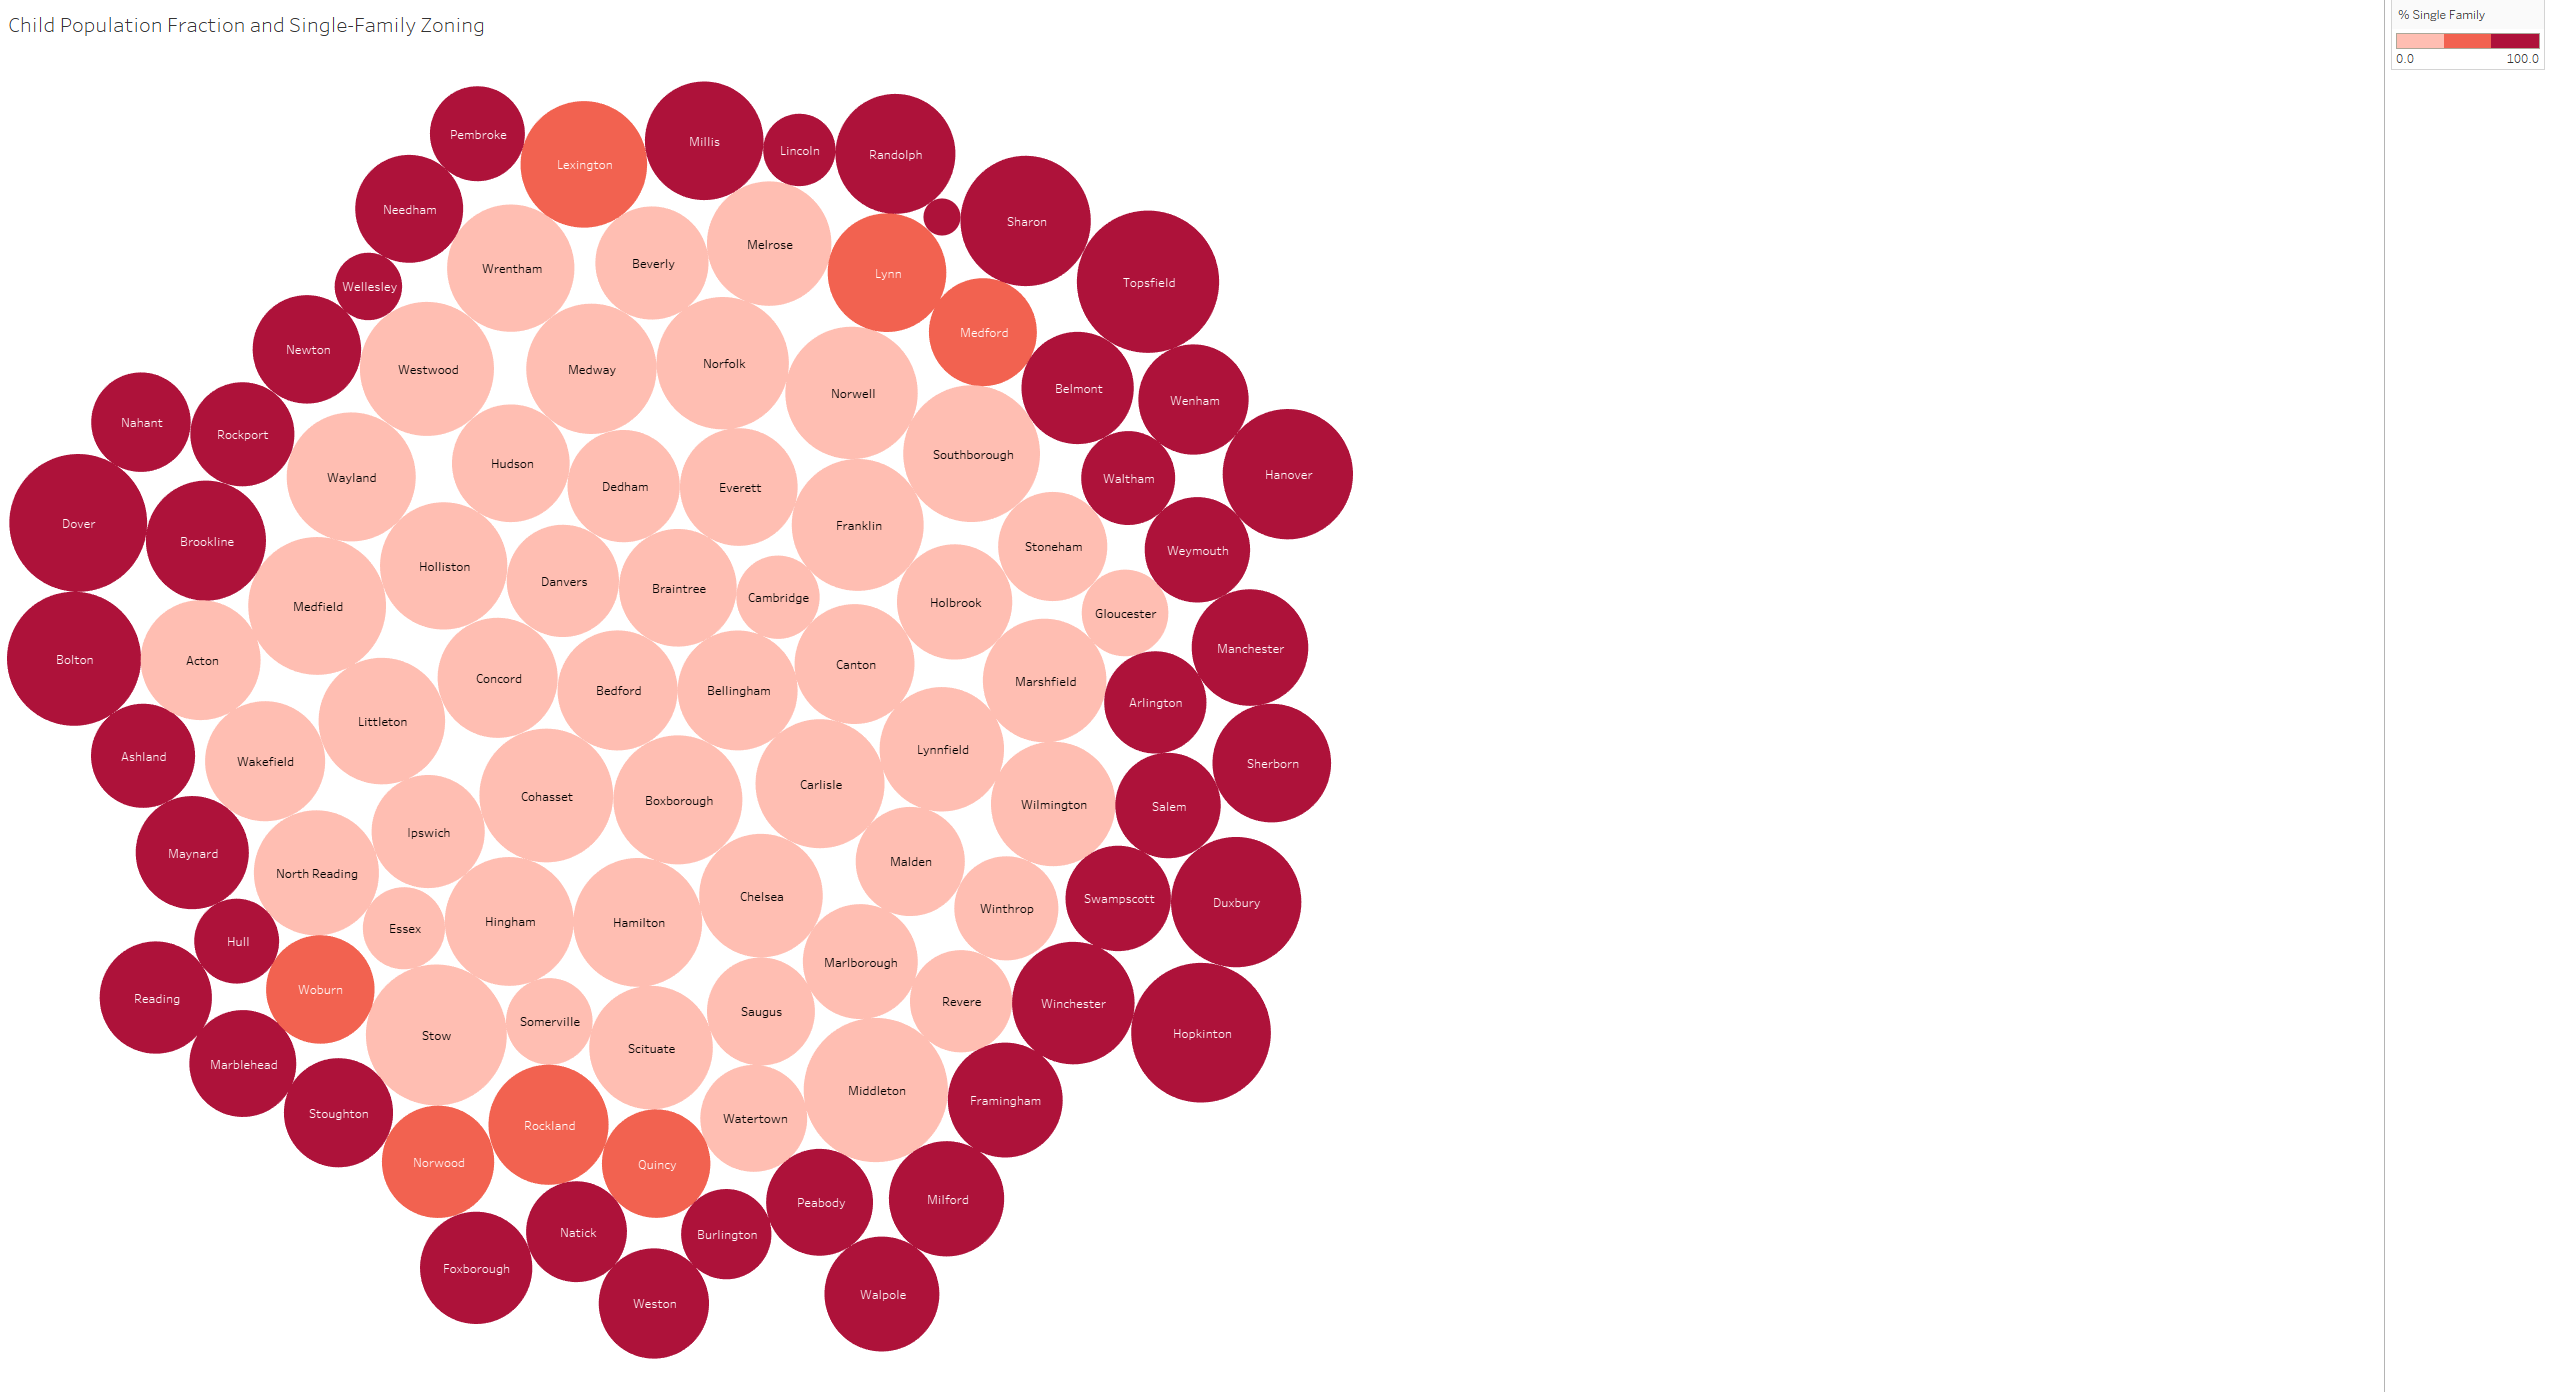
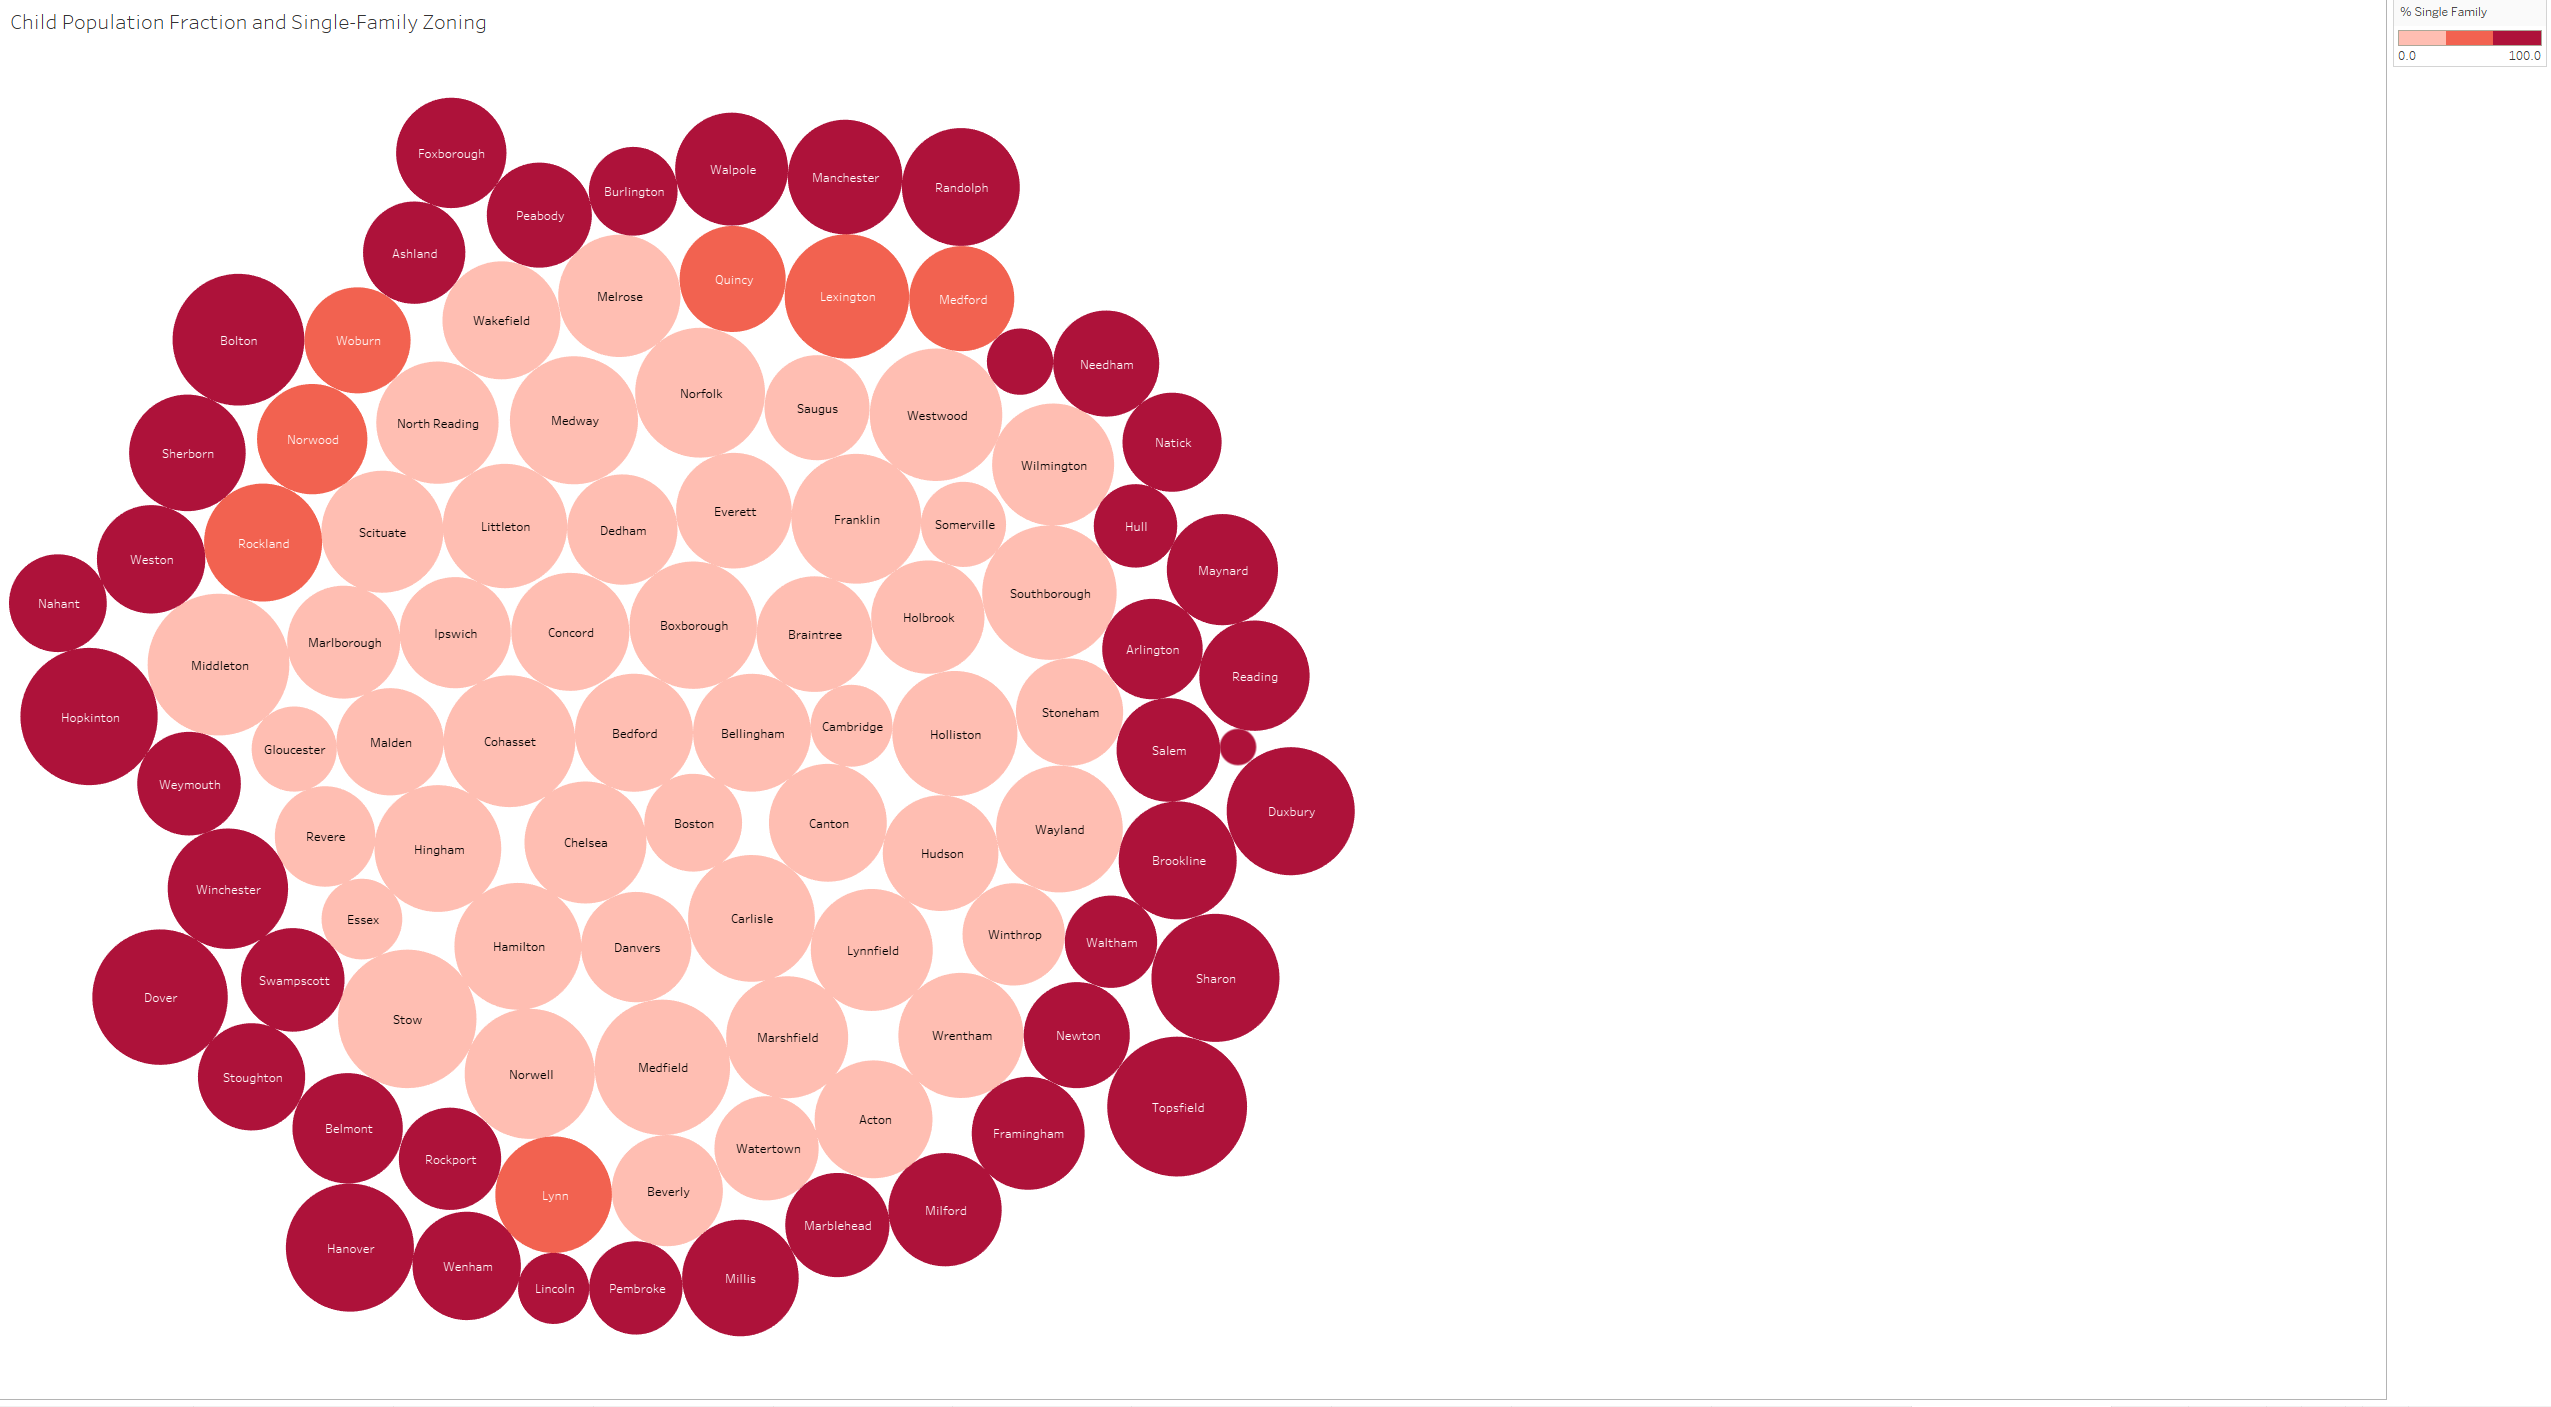
f

Changed region(s): [[0.0, 0.0618, 0.5574, 0.9885], [0.929, 0.0, 1.0, 0.0618], [0.0, 0.0, 0.1858, 0.0309]]

diff --git a/projects/A2_report.html b/projects/A2_report.html
@@ -258,30 +258,27 @@
 			</figure>
 
 			<figure>
-				<img src="../images/popChild-SF_bubble.png" alt="" width="100%" height="auto"/>
-				<figcaption>
-				ENTER IMAGE CAPTION HERE.
-				</figcaption>
-			</figure>
-
-			<figure>
 				<img src="../images/popChildFraction-SF_bubble.png" alt="" width="100%" height="auto"/>
 				<figcaption>
-				ENTER IMAGE CAPTION HERE.
+				Amy Dain discussed municipalities trying to avoid fiscal
+				penalties, such as the cost of putting more children through
+				school. As such, I wanted to see if there was an observable
+				impact of larger child populations on single-family zoning (or
+				vice versa). In this chart, I am showing the fraction of the
+				population that is under the age of 18 in the size of the
+				circles, with larger circles depicting municipalities with a
+				higher fraction of the population being children. The coloring
+				scheme is the same as the previous single-family housing
+				percentage maps: low (pink), moderate (orange), and high (red).
+				Ultimately, I see very little variation between municipalities;
+				many of these regions have similar fractions of the population
+				under the age of 18, with a few exceptions: Milton (the small
+				circle next to Salem), Wellesley (the small circle above
+				Westwood), Cambridge, and Essex. Some of these exceptions are
+				the location of sizable universities, which could explain some
+				of this trend.
 				</figcaption>
 			</figure>
-
-			<figure>
-				<img src="IMAGE_FILENAME" alt="" width="100%" height="auto"/>
-				<figcaption>
-				ENTER IMAGE CAPTION HERE.
-				</figcaption>
-			</figure>
-
-
-
-
-
 
 			<figure>
 				<img src="../images/mbta_map.png" alt="map of municipalities
